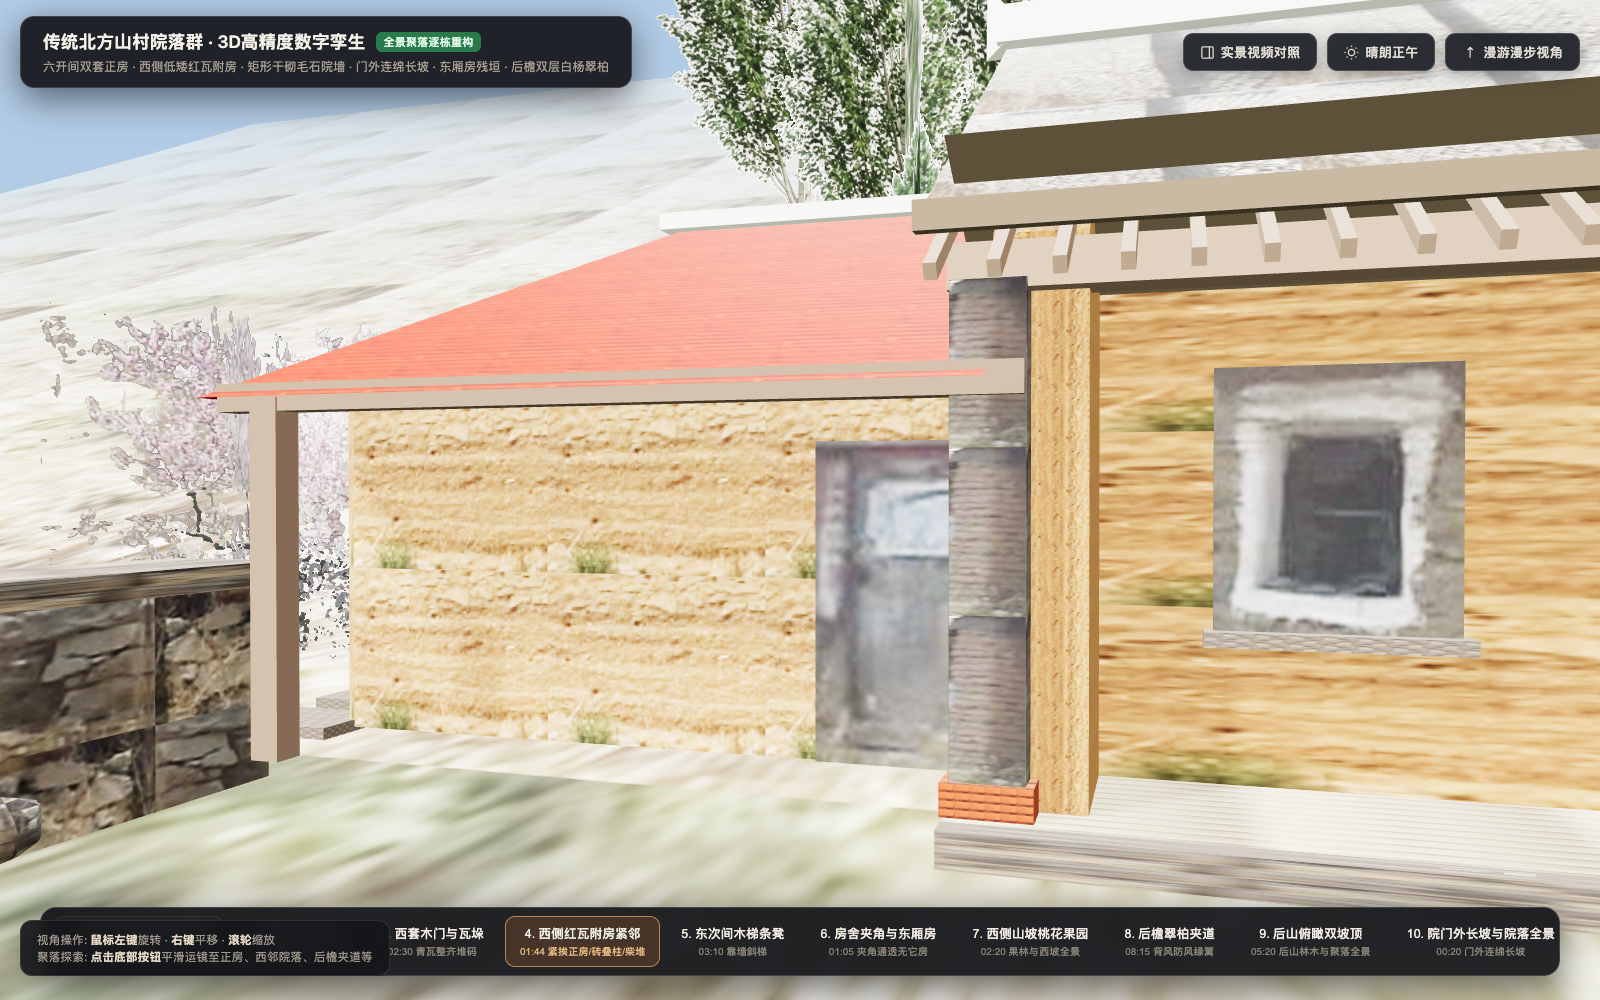
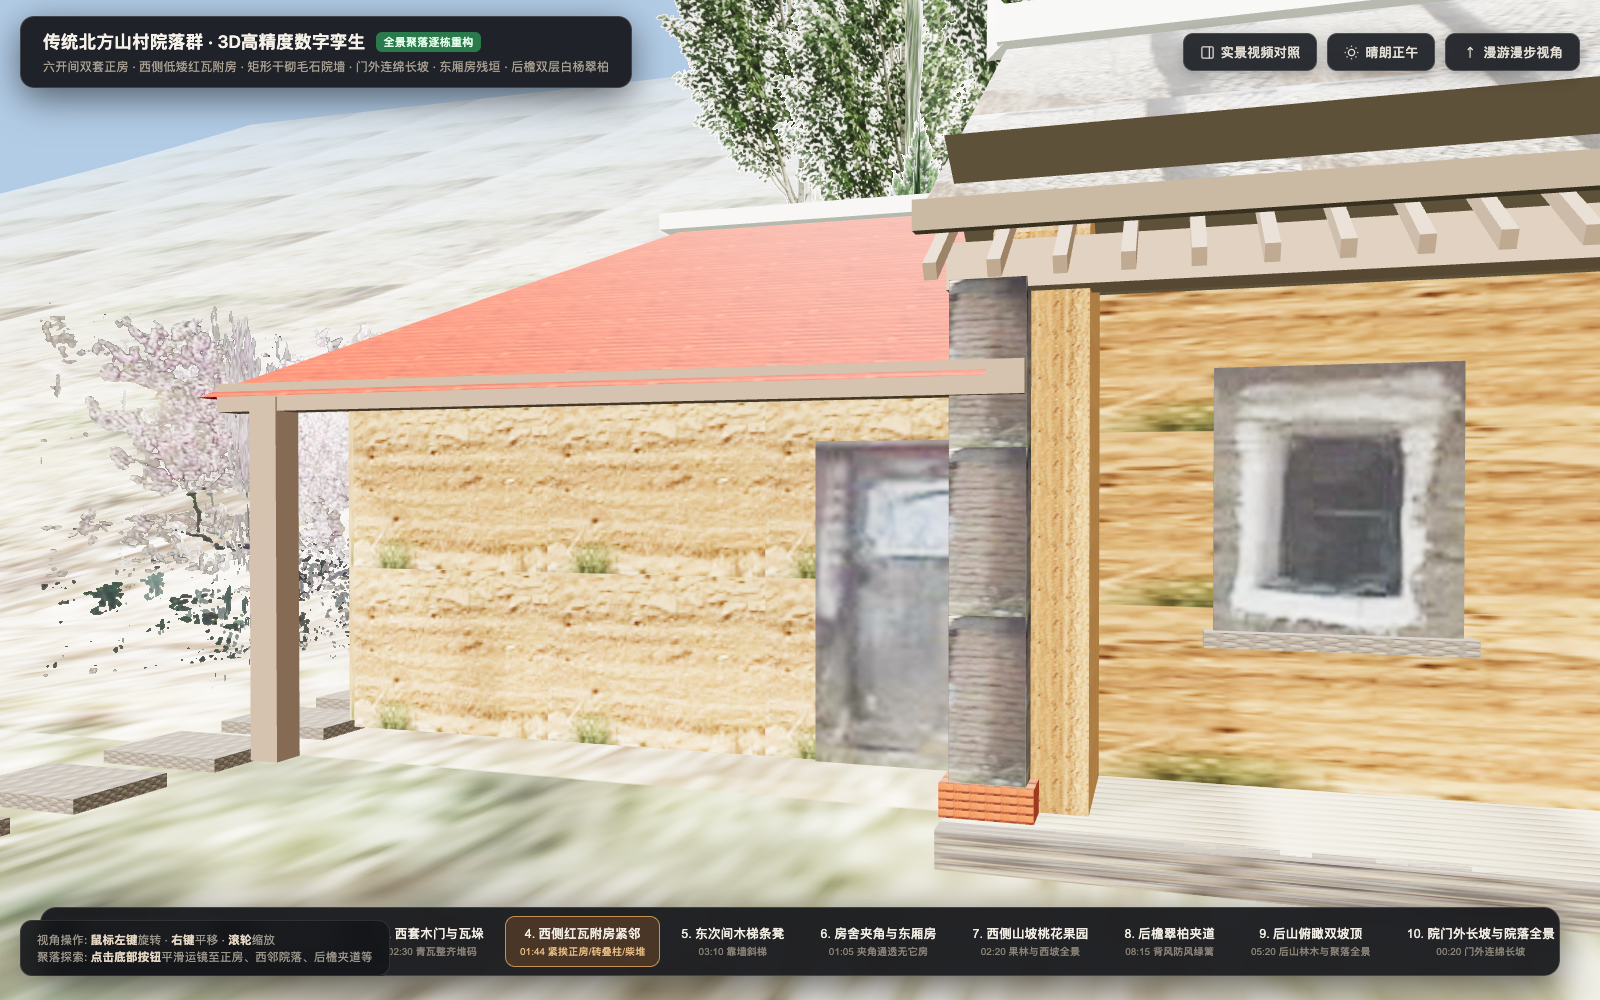
fix: disconnect west perimeter wall from annex pillar to leave entrance passageway

Changed region(s): [[0.0, 0.558, 0.1875, 0.868], [0.2188, 0.713, 0.25, 0.744]]

diff --git a/index.html b/index.html
@@ -598,12 +598,21 @@
     buildWallRun(southEastWallPoints, 1.15, 0.65, 1.50);
 
     // 2. West & Southwest Courtyard Perimeter Wall (纯矩形西院墙与大门西侧南院墙)
+    // 留下通往西侧山坡果林的进出通道（进出通道开口约2.1米宽，与附房角柱不连接）
     const westWallPoints = [
-        new THREE.Vector3(-14.2, 0.0, 0.5),
+        new THREE.Vector3(-14.2, 0.0, 2.8),
         new THREE.Vector3(-14.2, 0.0, 14.2),
         new THREE.Vector3(-5.2, 0.0, 14.2)
     ];
     buildWallRun(westWallPoints, 1.15, 0.65, 1.45);
+
+    // 西院墙北端收头毛石（进出通道开口端）
+    const westTerminalBoulder = new THREE.Mesh(new THREE.DodecahedronGeometry(0.52, 1), mStoneBoulder);
+    westTerminalBoulder.scale.set(1.15, 0.85, 1.15);
+    westTerminalBoulder.position.set(-14.2, 0.25, 2.8);
+    westTerminalBoulder.castShadow = true;
+    westTerminalBoulder.receiveShadow = true;
+    stoneWallGroup.add(westTerminalBoulder);
 
     // Courtyard Entrance Boulder Gateposts (-5.2 & -3.0 at z = 14.2)
     function addGatepost(gx, gz) {
@@ -1095,8 +1104,8 @@
     ridgeCapMesh.castShadow = true;
     annexGroup.add(ridgeCapMesh);
 
-    // Stone Slab Pavers in West Lane Walkway (西侧外道石板小径, 位于附房西侧外)
-    for (let sp = 0; sp < 8; sp++) {
+    // Stone Slab Pavers in West Lane Walkway (西侧外道石板小径, 经由通道自然引向主院)
+    for (let sp = 0; sp < 9; sp++) {
         const paver = new THREE.Mesh(new THREE.BoxGeometry(0.85, 0.08, 0.6), mStone);
         paver.position.set(-halfWidth - AW - 0.85, 0.06, -4.5 + sp * 0.95);
         paver.receiveShadow = true;

diff --git a/build_complete_compound.py b/build_complete_compound.py
@@ -600,12 +600,21 @@ html_content = '''<!DOCTYPE html>
     buildWallRun(southEastWallPoints, 1.15, 0.65, 1.50);
 
     // 2. West & Southwest Courtyard Perimeter Wall (纯矩形西院墙与大门西侧南院墙)
+    // 留下通往西侧山坡果林的进出通道（进出通道开口约2.1米宽，与附房角柱不连接）
     const westWallPoints = [
-        new THREE.Vector3(-14.2, 0.0, 0.5),
+        new THREE.Vector3(-14.2, 0.0, 2.8),
         new THREE.Vector3(-14.2, 0.0, 14.2),
         new THREE.Vector3(-5.2, 0.0, 14.2)
     ];
     buildWallRun(westWallPoints, 1.15, 0.65, 1.45);
+
+    // 西院墙北端收头毛石（进出通道开口端）
+    const westTerminalBoulder = new THREE.Mesh(new THREE.DodecahedronGeometry(0.52, 1), mStoneBoulder);
+    westTerminalBoulder.scale.set(1.15, 0.85, 1.15);
+    westTerminalBoulder.position.set(-14.2, 0.25, 2.8);
+    westTerminalBoulder.castShadow = true;
+    westTerminalBoulder.receiveShadow = true;
+    stoneWallGroup.add(westTerminalBoulder);
 
     // Courtyard Entrance Boulder Gateposts (-5.2 & -3.0 at z = 14.2)
     function addGatepost(gx, gz) {
@@ -1097,8 +1106,8 @@ html_content = '''<!DOCTYPE html>
     ridgeCapMesh.castShadow = true;
     annexGroup.add(ridgeCapMesh);
 
-    // Stone Slab Pavers in West Lane Walkway (西侧外道石板小径, 位于附房西侧外)
-    for (let sp = 0; sp < 8; sp++) {
+    // Stone Slab Pavers in West Lane Walkway (西侧外道石板小径, 经由通道自然引向主院)
+    for (let sp = 0; sp < 9; sp++) {
         const paver = new THREE.Mesh(new THREE.BoxGeometry(0.85, 0.08, 0.6), mStone);
         paver.position.set(-halfWidth - AW - 0.85, 0.06, -4.5 + sp * 0.95);
         paver.receiveShadow = true;
